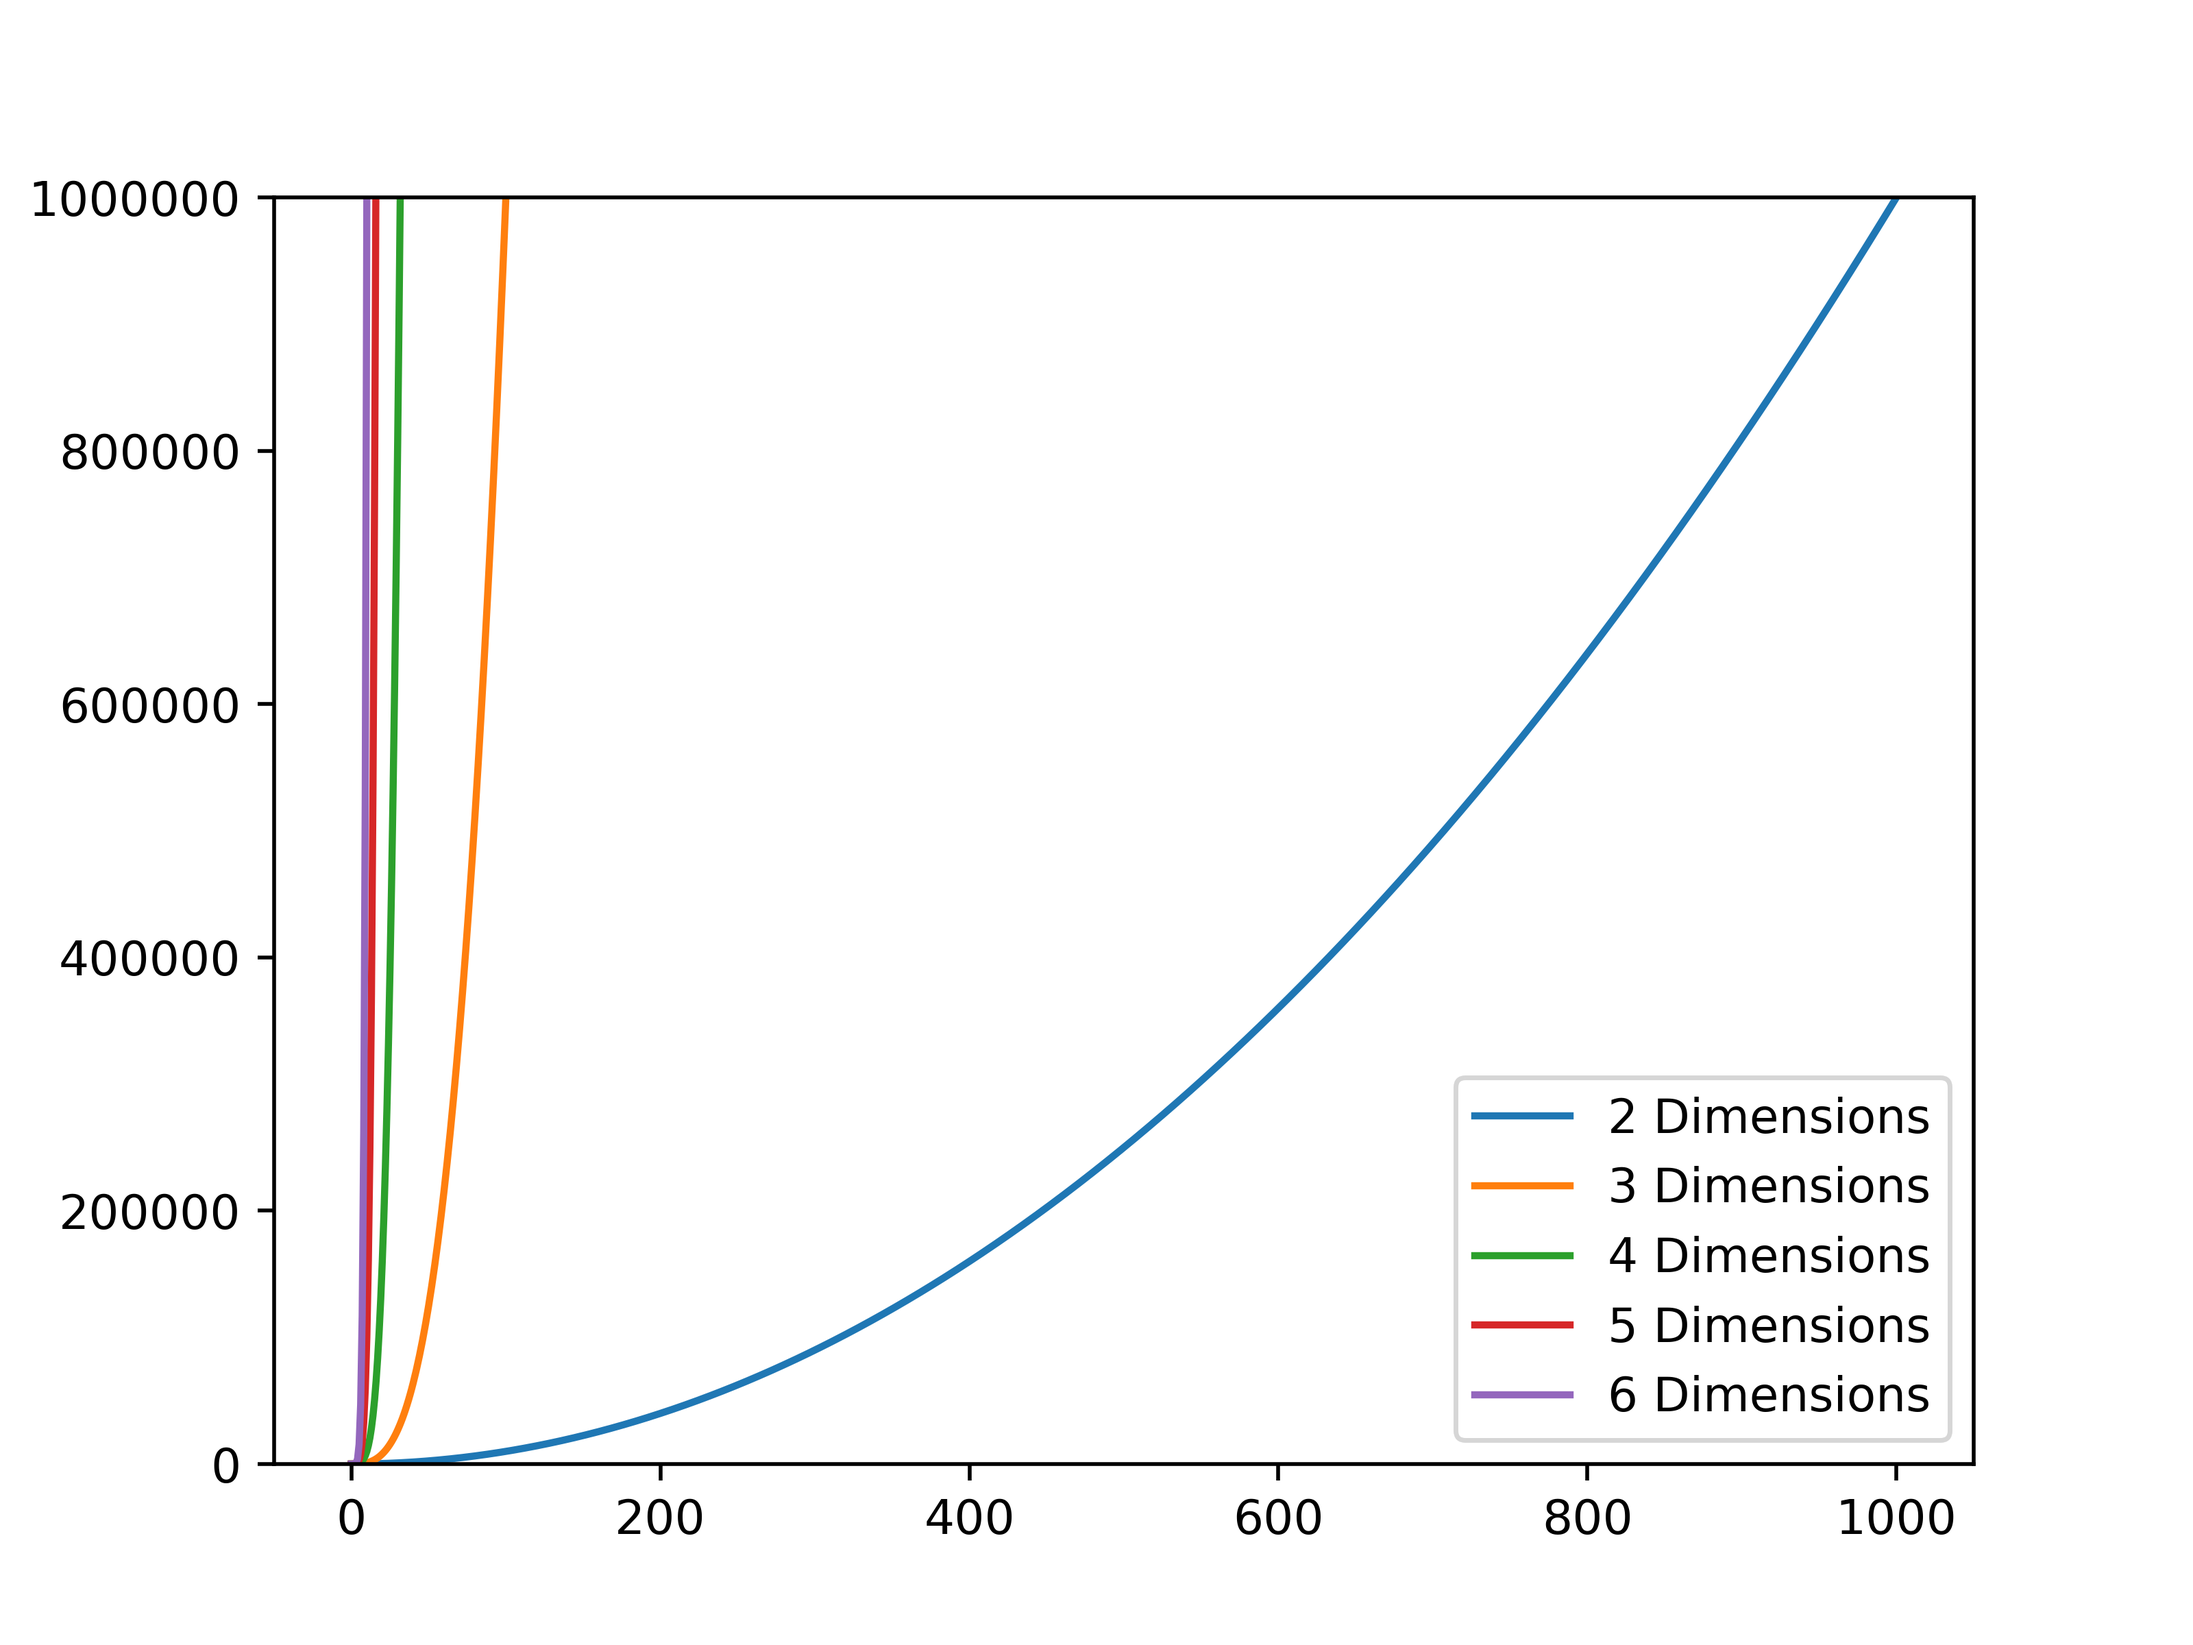
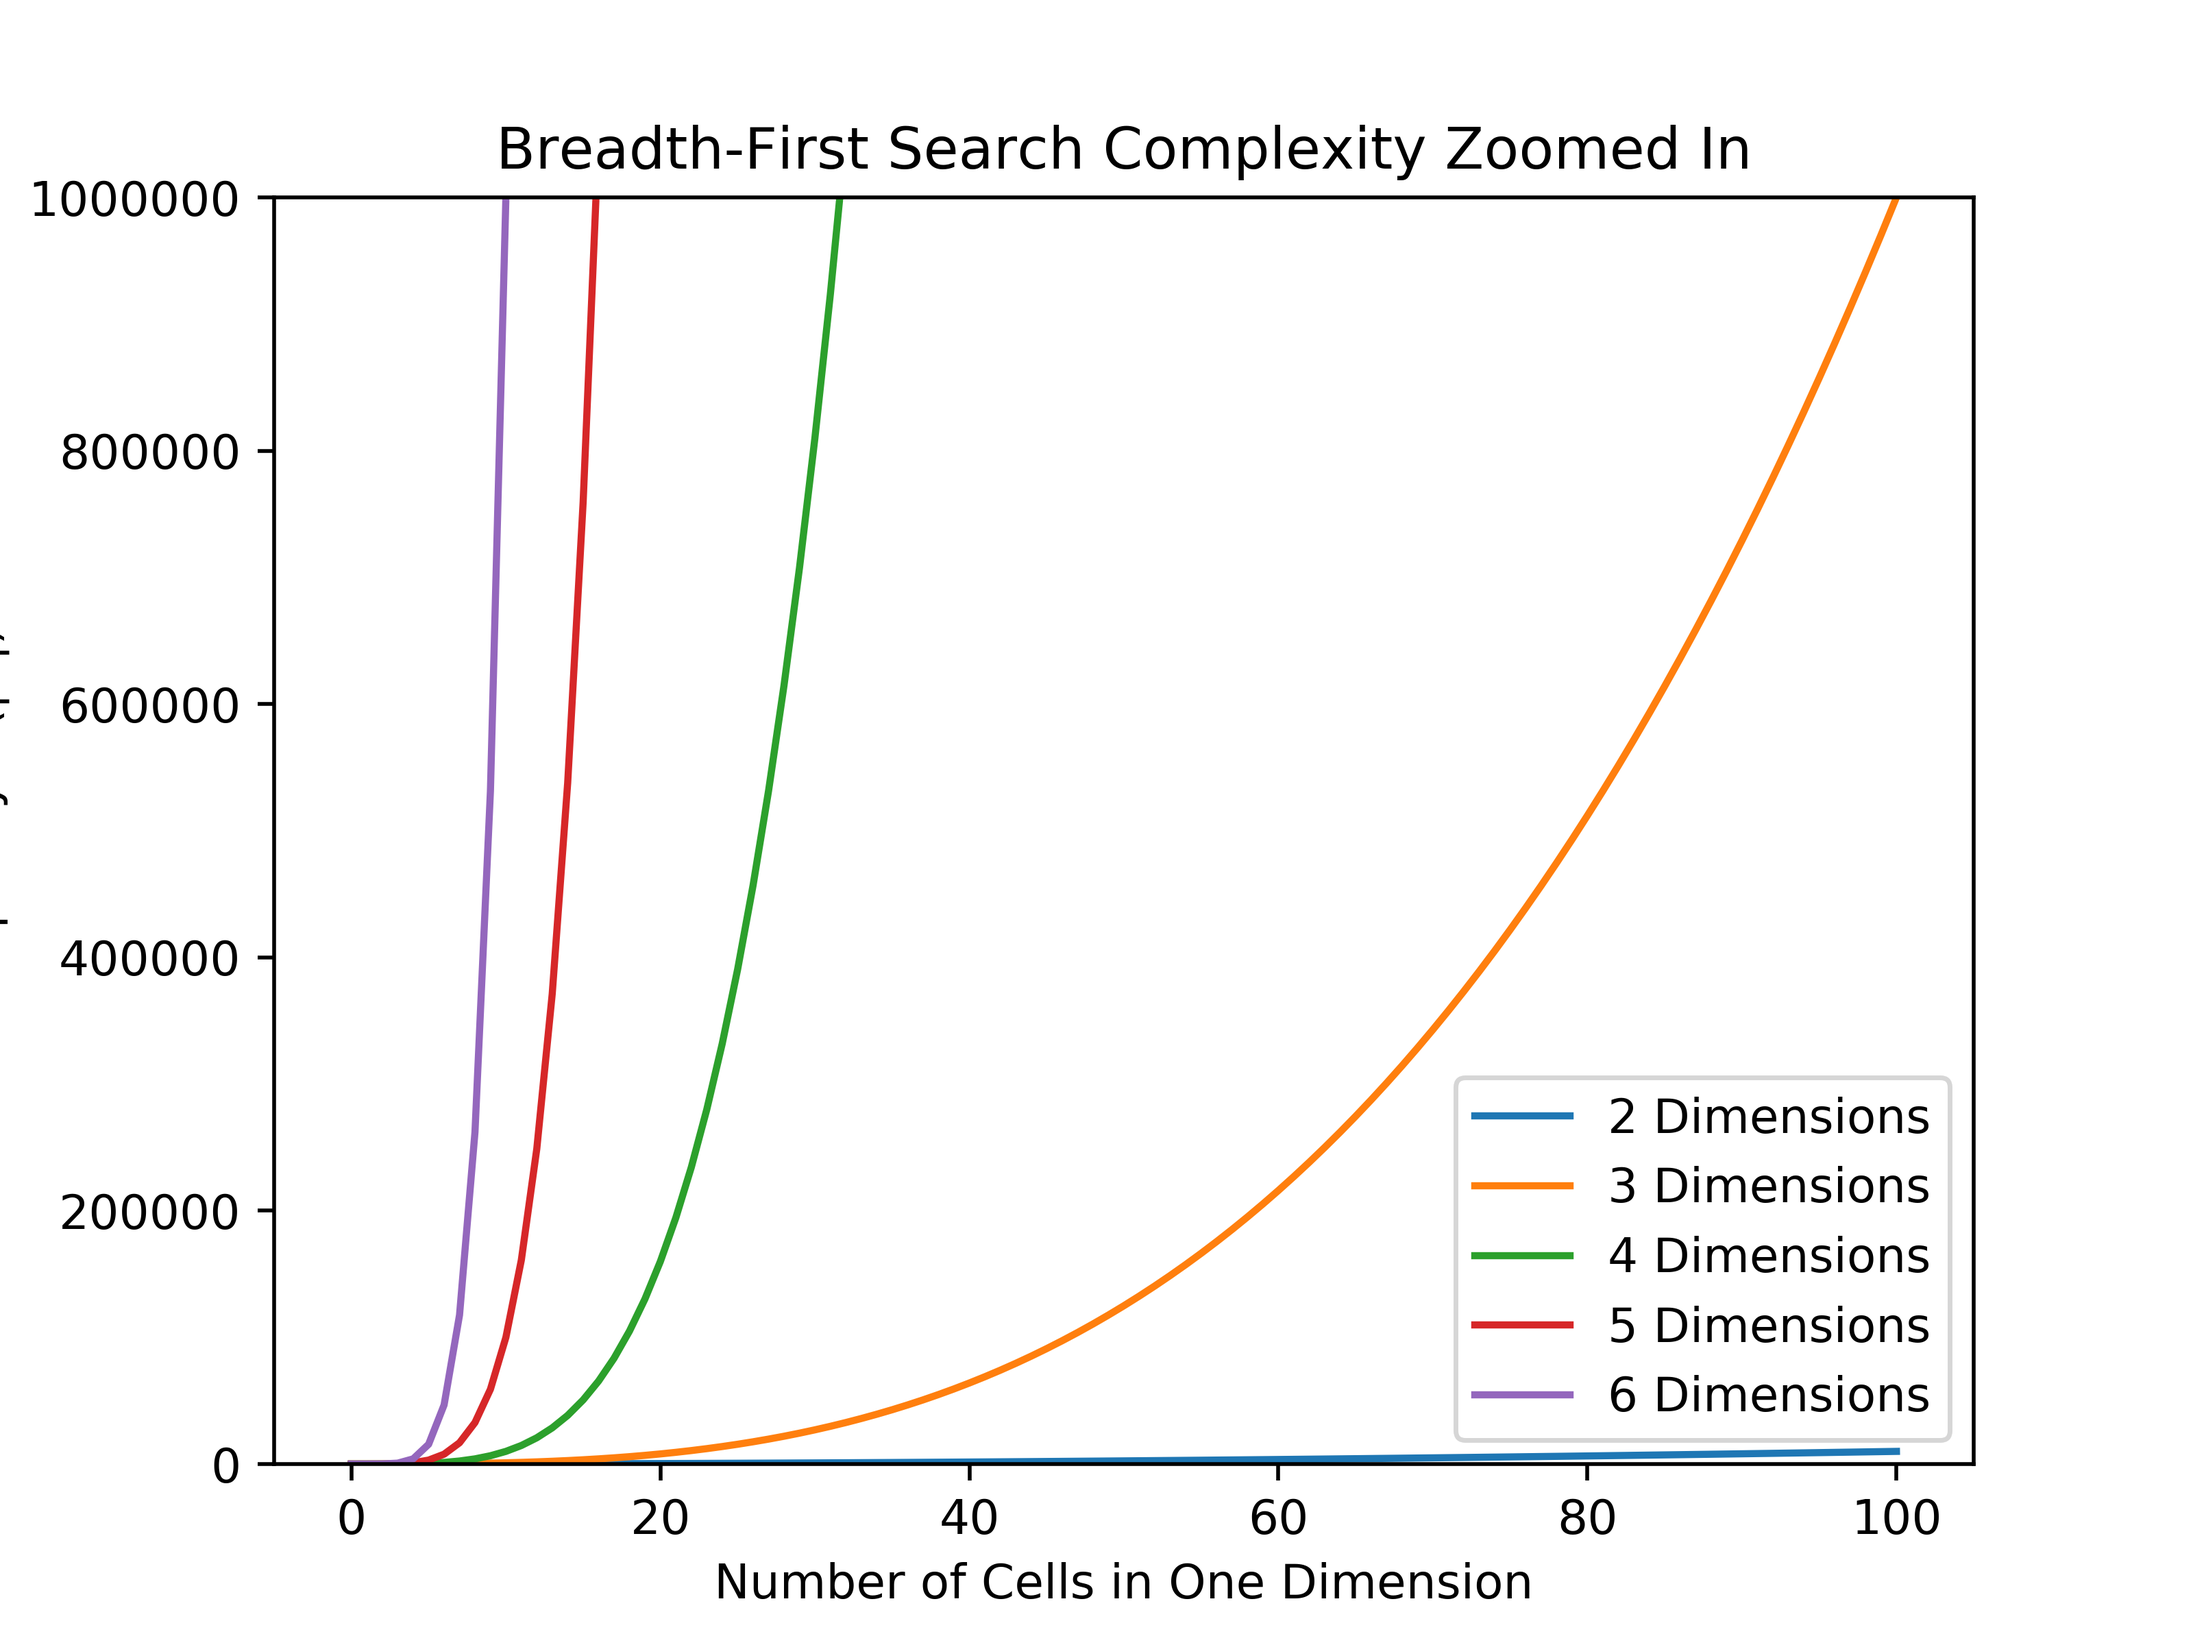
Add title and labels

diff --git a/week1/bfs_complexity.py b/week1/bfs_complexity.py
@@ -2,7 +2,7 @@ import matplotlib.pyplot as plt
 from matplotlib import colors
 import numpy as np
 
-# BFS == Bread First Search.
+# BFS == Breadth First Search.
 # This script plots the O notation (complexity) of using BFS
 # to search a grid of N cells. In this example we are looking at 
 # cells of 1, 2, 3, ... all the way to 1000 cells.
@@ -26,7 +26,12 @@ for num_dimension in range(min_dimensions, max_dimensions + 1):
     plt.plot(number_of_cells_in_one_dimension, complexity, label=legend_label)
     
 plt.legend()
+plt.title("Breadth-First Search Complexity Zoomed Out")
+plt.xlabel("Number of Cells in One Dimension")
+plt.ylabel("Complexty O(|V|)")
 plt.savefig("images/bfs_zoomed_out.png", dpi=500)
 
+plt.title("Breadth-First Search Complexity Zoomed In")
 plt.ylim([0, 1e6])
+plt.ylabel("Complexty O(|V|)")
 plt.savefig("images/bfs_zoomed_in.png", dpi=500)
